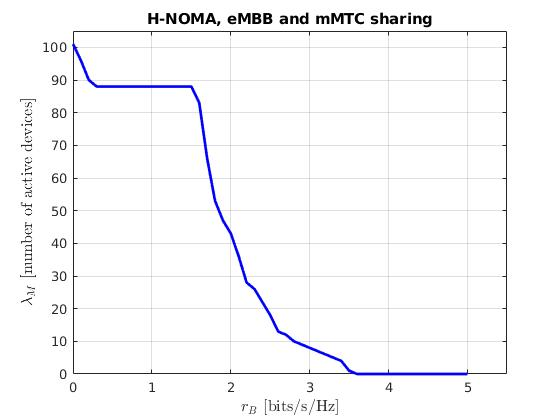
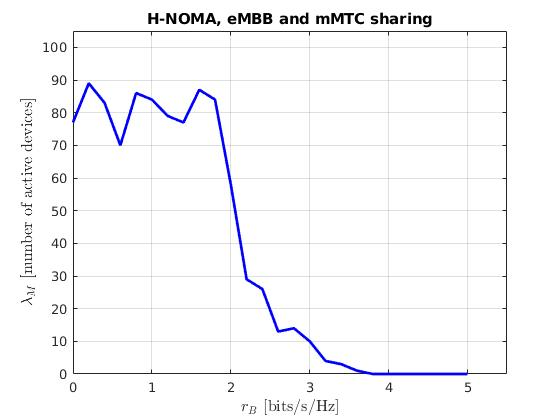
added poisson distribution for mmtc arrival rate

Changed region(s): [[0.1214, 0.0929, 0.6679, 0.8976], [0.2732, 0.2476, 0.3036, 0.2786]]

diff --git a/hnoma.m b/hnoma.m
@@ -12,7 +12,7 @@ Em = 1e-1;                        % Reliability requirement for mMTC
 Eb = 1e-3;                        % Reliability requirement for eMBB
 rm = 0.04;                        % Data rate of the mMTC devices [bits/s/Hz]
 Am_max = 200;                     % Maximum number of mMTC devices
-rb_HNOMA = 0:0.1:5;               % Data rate of the eMBB devices [bits/s/Hz]
+rb_HNOMA = 0:0.2:5;               % Data rate of the eMBB devices [bits/s/Hz]
 %% eMBB
 Gb_min = SNR_B*log(1/(1-Eb));                   % Threshold SNR
 Gb_tar_max = SNR_B/expint(Gb_min/SNR_B);        % Target SNR
@@ -28,12 +28,12 @@ Gb = SNR_B*Hb.^2;                             % Channel Gain of the eMBB Device
 Lambda_m_non=zeros(1,length(rb_HNOMA));
 parfor x=1:length(rb_HNOMA)
     Gb_tar_min=(2^rb_HNOMA(x))-1;  
-    for Am=1:Am_max % Number of active mMTC devices
+    for Am_it=1:Am_max % Number of active mMTC devices
         
-        %Am = poissrnd(Am_it);
-%         while Am == 0 
-%             Am = poissrnd(Am_it);
-%         end
+        Am = poissrnd(Am_it);
+        while Am == 0 
+            Am = poissrnd(Am_it);
+        end
         
         Gm=Gm_max(1:Am,:);
         if Am~=1
@@ -116,7 +116,7 @@ end
 rBf = rb_HNOMA;
 maxdevices = Lambda_m_non;
 %save('Results_1_Non.mat','rBf','maxdevices')
-
+%%
 figure
 plot(rBf,maxdevices,'b','LineWidth',2)
 xlim([0 5.5])
